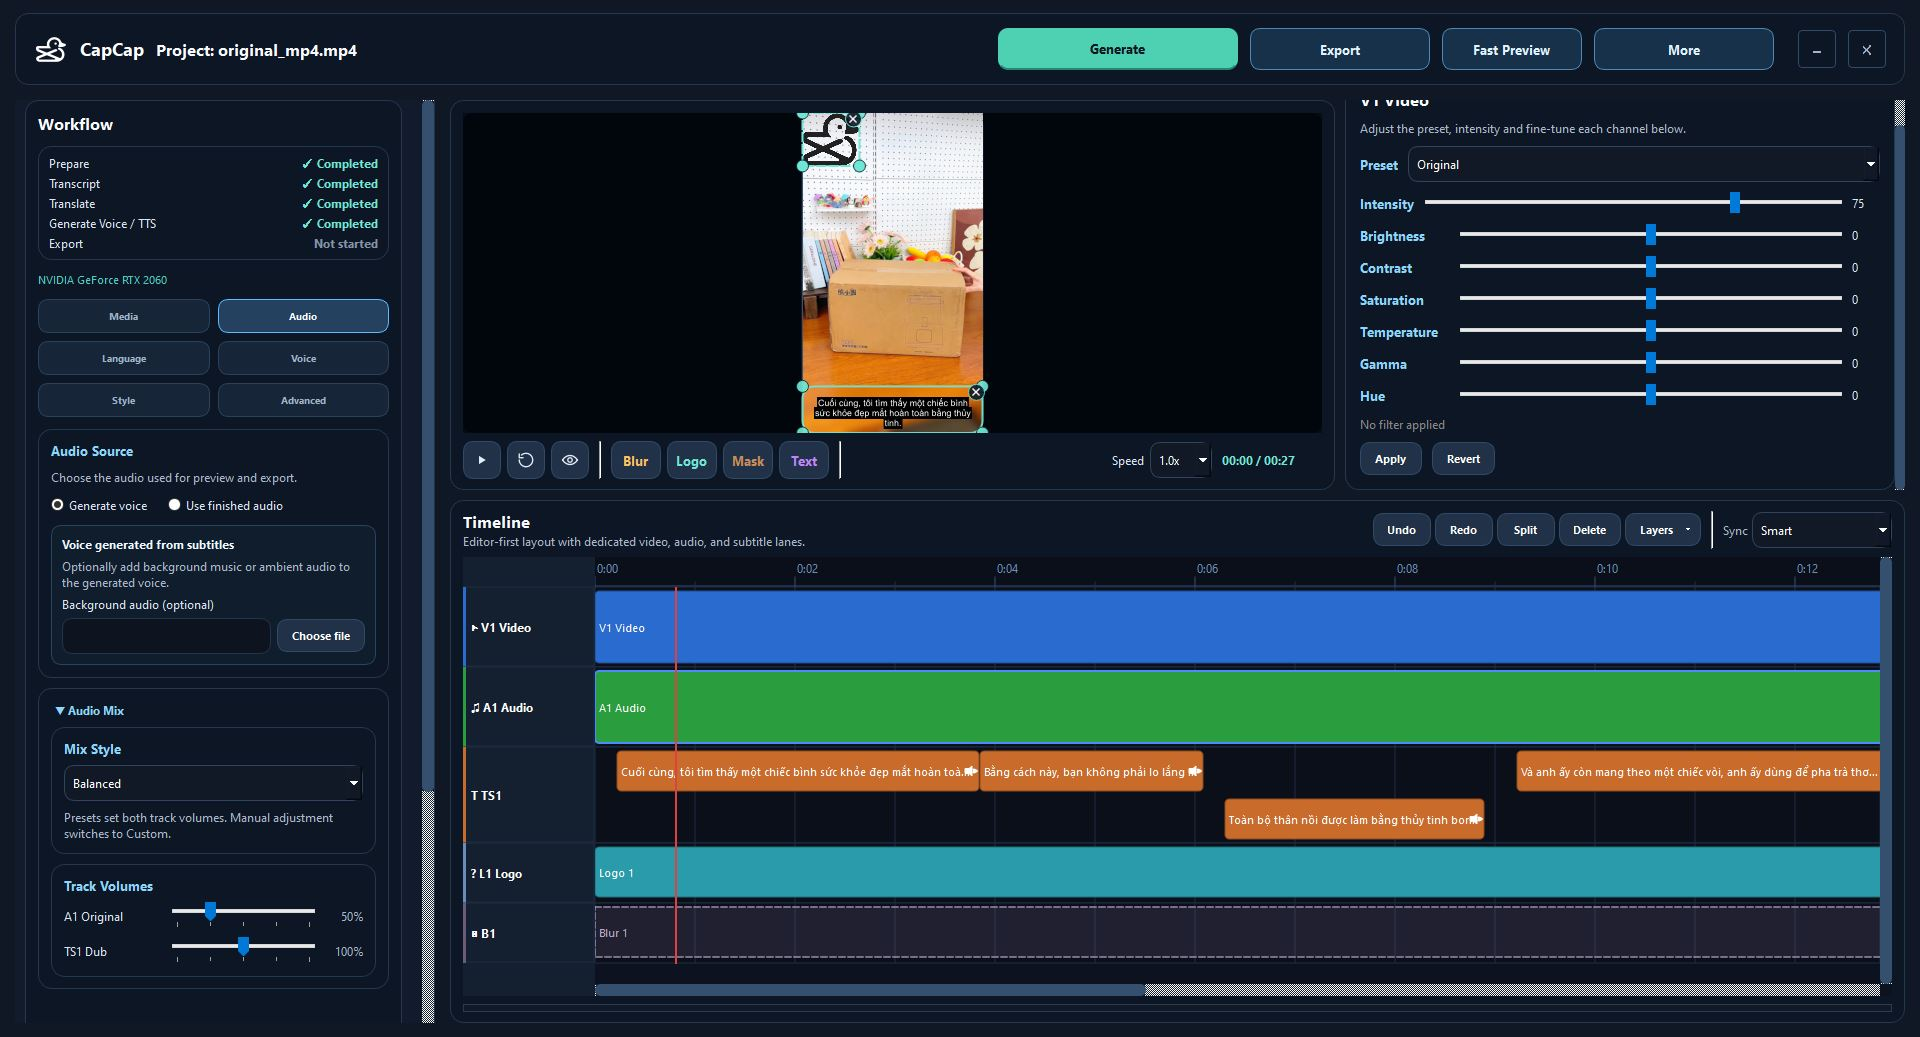
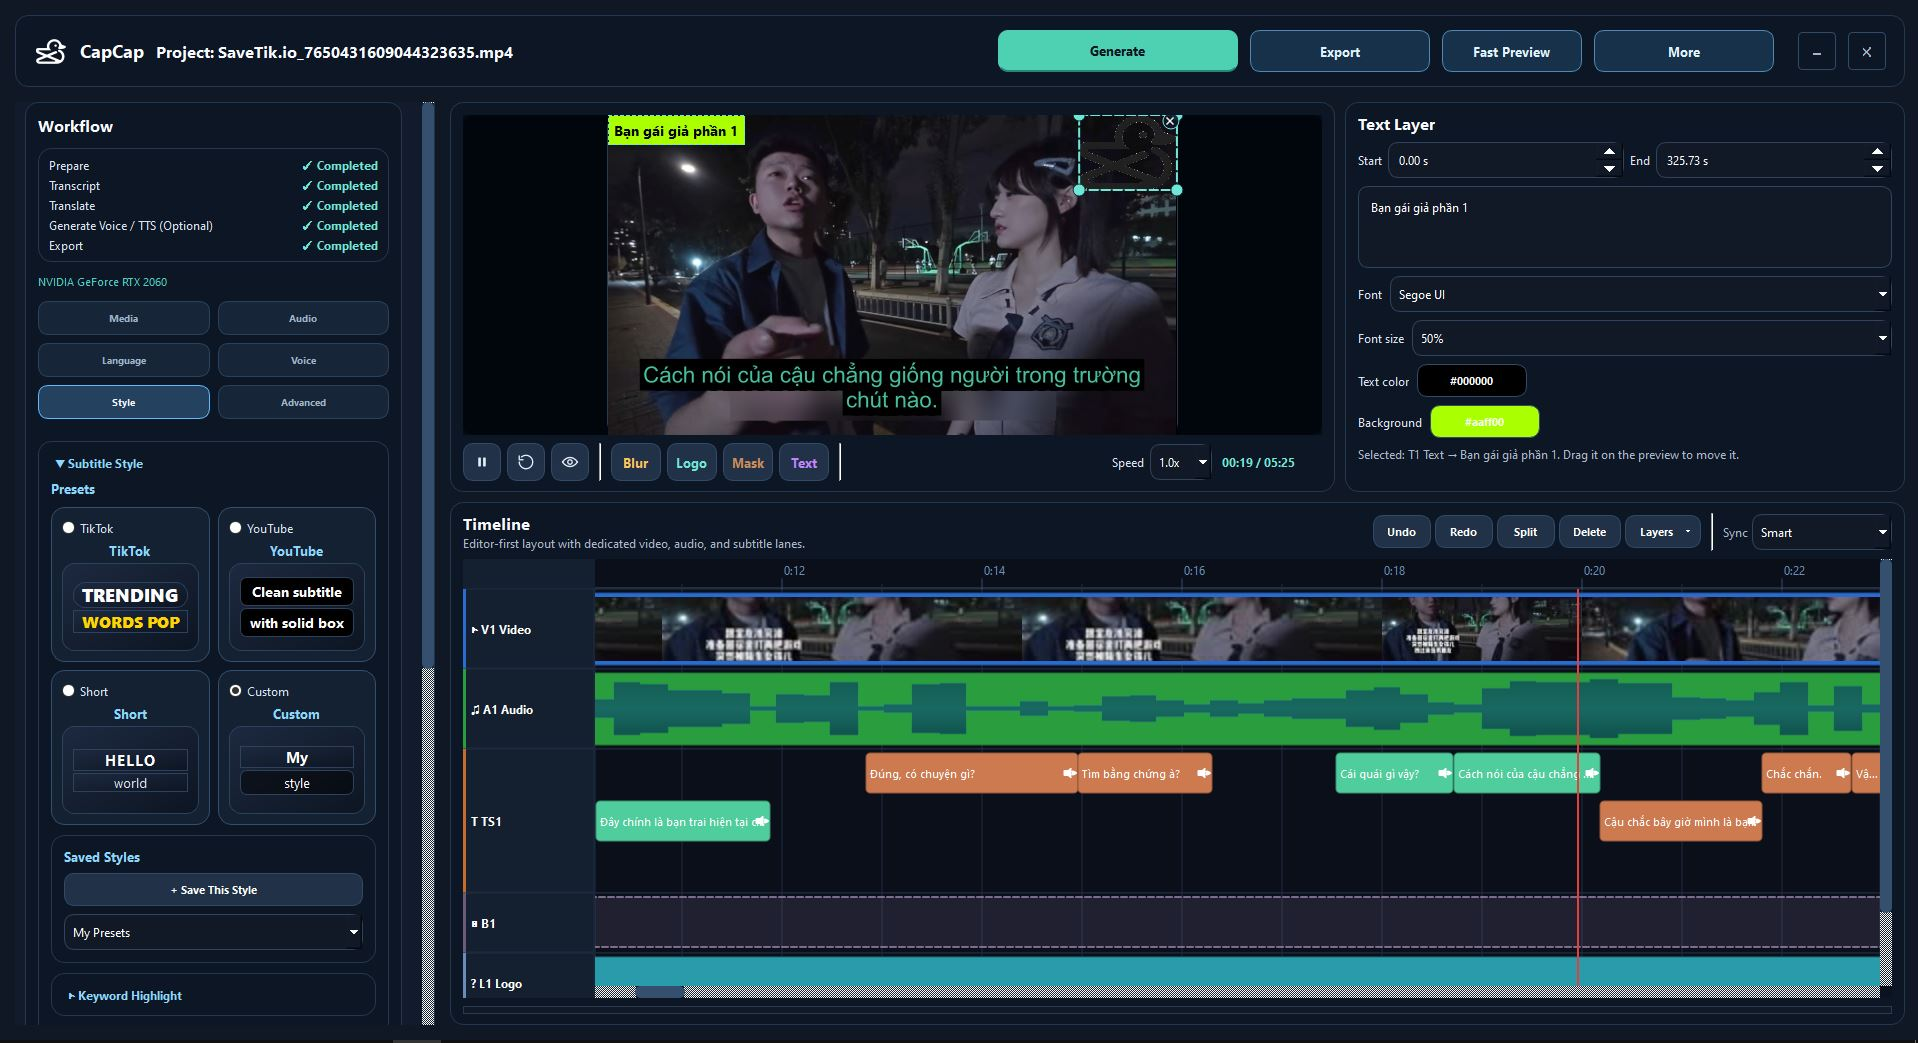
Persist speaker assignments and document diarization

diff --git a/app/services/gui_project_bridge.py b/app/services/gui_project_bridge.py
@@ -131,6 +131,29 @@ class GUIProjectBridge:
         translation_json = state.artifacts.get("translation_final")
         if translation_json and os.path.exists(translation_json):
             translation_models = self.project_service.load_segment_artifact(state, "translation_final")
+            # Repair projects written before flat ``speaker`` metadata was
+            # retained during translation persistence.  Speaker identity is
+            # visualization/TTS metadata, so match the stable cue order from
+            # the transcript and save the repaired project artifact once.
+            repaired_speakers = False
+            for index, translation_model in enumerate(translation_models):
+                if index >= len(context["current_segment_models"]):
+                    break
+                if translation_model.metadata.get("speaker"):
+                    continue
+                source_speaker = str(
+                    context["current_segment_models"][index].metadata.get("speaker", "") or ""
+                ).strip()
+                if source_speaker:
+                    translation_model.metadata["speaker"] = source_speaker
+                    repaired_speakers = True
+            if repaired_speakers:
+                self.project_service.save_segment_artifact(
+                    state,
+                    "translation_final",
+                    os.path.join("translation", "translation_final.json"),
+                    translation_models,
+                )
             context["current_translated_segment_models"] = translation_models
             context["current_translated_segments"] = [segment.to_subtitle_dict() for segment in translation_models]
 

diff --git a/app/core/models/segment.py b/app/core/models/segment.py
@@ -27,6 +27,12 @@ class Segment:
         final_text = str(data.get("final_text", data.get("text", "")) or "")
         tts_text = str(data.get("tts_text", "") or "")
         metadata = dict(data.get("metadata", {}) or {})
+        # Editor and diarization workflows use a flat ``speaker`` field,
+        # while persisted Segment artifacts keep supplemental data in
+        # metadata. Preserve it in both directions.
+        speaker = str(data.get("speaker", "") or "").strip()
+        if speaker and not metadata.get("speaker"):
+            metadata["speaker"] = speaker
         if "words" in data and "words" not in metadata:
             metadata["words"] = list(data.get("words") or [])
         if "manual_highlights" in data and "manual_highlights" not in metadata:

diff --git a/README.md b/README.md
@@ -13,6 +13,7 @@
 - **GPU-accelerated** — plug in NVIDIA GPU, install driver only, get ~5x faster transcription
 - Vietnamese and English output, with automatic Piper voice selection for the chosen output language
 - Speech-to-text: `faster-whisper` (CPU/GPU), `SenseVoice` (CPU, multilingual), or `RapidOCR` (video subtitle)
+- **Offline speaker diarization** — optional Sherpa-ONNX speaker detection for Whisper and SenseVoice; no PyTorch dependency. Speaker turns are colour-coded on TS1 and retained with the project.
 - OCR subtitle region editor with separate show/hide control
 - AI translation — 5 providers:
   - **Local GGUF** (default, offline, CPU/GPU, `.gguf` model)
@@ -29,6 +30,7 @@
 - VAD + denoise + loudness normalization for cleaner transcription
 - Guided pipeline: **Prepare → Transcript → Translate → TTS → Export**, with completion badges
 - Generate menu for a guided **Step-by-Step** workflow or the **Full Pipeline**
+- Optional TTS — after translation, choose **TTS** or **Skip** and export translated subtitles with the original audio when no voice-over is needed
 - Timeline editing, subtitle styling, video filters, and timed overlay layers
 - Translation-to-TTS cache prefetch to reduce voice generation wait time
 - Subtitle + voice export with FFmpeg
@@ -102,13 +104,13 @@ Videos over 2 hours are blocked from opening. Use the **Split Video** button to 
 - `More` — subtitle download, Original script download, Exit (back to launcher), Clean project, Settings
 
 ### Left Panel
-- `Media` — video, audio, background music, output quality, aspect ratio, canvas (Fit/Fill), Reset Framing
+- `Media` — video, audio, background music, output quality, aspect ratio, canvas (Fit/Fill), Reset Framing, and optional **Speaker Diarization** for audio-based transcription. It is unavailable in OCR mode and is off by default; choose Auto or a fixed expected speaker count.
 - `Language` — source/target language (Vietnamese or English output), Whisper model
-- `Voice` — engine (Fast Voice only, Piper + edge-tts), gender, speed, voice preview
+- `Voice` — engine (Fast Voice only, Piper + edge-tts), gender, speed, voice preview, and **Detected Speakers** after diarization. Each detected speaker shows its timeline colour and segment count, can use a dedicated voice, and can be bulk-reassigned to another detected speaker. Speakers without an override use the global default voice.
 - `Style`
   - `Presets` — TikTok, YouTube, Short, Custom
   - `Text Position` — placement mode, placement, custom X/Y, vertical offset
-  - `Text Style` — font, preset font scale (50–150%), colours, outline, bold, and animation
+  - `Text Style` — font, preset font scale (50–150%), colours, outline, bold, animation, and optional **Use speaker colors** to match subtitle text to speaker colours on TS1
   - `Background` — background box, colour, opacity, and padding
   - `Single Line Subtitle` — enable word-based subtitle splitting and choose **Words per Segment** (default: 4)
   - `Animation & Timing` — animation, duration, text timing
@@ -129,7 +131,7 @@ Videos over 2 hours are blocked from opening. Use the **Split Video** button to 
 ### Track Inspector (Right Panel)
 The inspector always stays expanded and swaps its card to match the track type you click. Each card is wrapped in a scroll view so tall content doesn't clip.
 
-- **Subtitle / Dub** (flat single panel, no tabs) — `Rewrite`, `Rewrite Selected`, `Import SRT`, `Regenerate Voice` (top action row), shared `Original text` label, segment timing chips, segment editor (180px height).
+- **Subtitle / Dub** (flat single panel, no tabs) — `Rewrite`, `Rewrite Selected`, `Import SRT`, `Regenerate Voice` (top action row), shared `Original text` label, segment timing chips, segment editor (180px height), and a **Speaker** selector for correcting an individual diarization assignment.
 - **Audio** (idx 1) — per-track volume (0-200%), gain in dB, speed, fade-in / fade-out, mute / solo, A1 vs A2 (Dub) selection.
 - **Blur** (idx 2) — B1 Blur track on/off toggle + per-region controls: `Blur radius` (1-20), `Opacity` (0-100%), `Pixelate` (mosaic) + `Pixel size` (2-60). Multiple regions stack vertically in the timeline so overlapping blurs stay visible.
 - **Video** (idx 3) — V1 Video track filter. Preset + intensity sliders, plus per-channel adjust sliders (brightness, contrast, saturation, temperature, gamma, hue), Apply / Revert.
@@ -155,6 +157,7 @@ Behavior notes:
 - Blur, Logo, Mask, and Text layers are stacked vertically inside their tracks so overlapping layers are all visible.
 - The Delete button removes the currently selected Blur, Logo, Mask, or Text layer.
 - **Row stacking** — DubSubtitleLayer bars that overlap in audio time (via `_audio_end`) are pushed down a row so both are visible. Overflow-row bars get a dashed border.
+- **Speaker colours** — when diarization is enabled, TS1 segments are colour-coded by detected speaker. Selecting a speaker in the Voice panel highlights that speaker's segments for review.
 
 ## Technical Stack
 
@@ -164,6 +167,7 @@ Behavior notes:
 | Video preview | libmpv / Qt Multimedia |
 | Workers | QThread |
 | Speech-to-text | faster-whisper (CTranslate2, CUDA/CPU), SenseVoice (sherpa-onnx, CPU) |
+| Speaker diarization | Sherpa-ONNX (offline ONNX Runtime) |
 | OCR subtitle extraction | RapidOCR (PP-OCRv4) via opencv-python-headless |
 | Voice activity detection | Silero VAD (sherpa-onnx) |
 | Vocal separation | ONNX Runtime + UVR MDX-NET model, Demucs (Hybrid Transformer, optional) |
@@ -238,6 +242,7 @@ Per-card progress replaces the status pill during an Auto Download. Click **Refr
 | SenseVoice ASR Model | `models/sensevoice/` | ✅ |
 | Local Vietnamese Voices (Piper) | `models/piper/` | ✅ |
 | Local English Voices (Piper) | `models/piper-en/` | ✅ |
+| Speaker Diarization | `models/pyannote/` | manual model files |
 
 - **AI Model** (Normal / High)
   - File: `models/ai/Hy-MT2-1.8B-Q4_K_M.gguf` (default) or `models/ai/gemma-4-E4B-it-Q4_K_M.gguf`
@@ -259,6 +264,9 @@ Per-card progress replaces the status pill during an Auto Download. Click **Refr
 - **Local English Voices (Piper)**
   - Folder: `models/piper-en/`
   - Download through **Manage Resources** or install the supplied English Piper `.onnx` files with their `.onnx.json` configs.
+- **Speaker Diarization (optional)**
+  - Folder: `models/pyannote/`
+  - Requires the supplied Sherpa-ONNX segmentation and speaker-embedding `.onnx` models. It runs locally through ONNX Runtime and is used only when **Speaker Diarization** is enabled for Whisper or SenseVoice.
 
 ## Run From Source
 
@@ -282,13 +290,14 @@ python app/remote_api_server.py
 
 1. Load a video. **Prepare** is marked complete once the video is ready.
 2. Choose the source and target language, then select audio handling.
-3. Open **Generate** and either:
+3. If wanted, enable **Speaker Diarization** in Media before transcribing. It runs alongside GPU Whisper where possible, then assigns speaker labels to subtitle segments.
+4. Open **Generate** and either:
    - choose **Full Pipeline** to run Transcript → Translate → TTS, or
    - choose **Step-by-Step** to run stages in order. Each next stage unlocks after the preceding stage completes.
-4. To translate manually, run to Transcript, export the subtitle file from **More**, translate it externally, then use **Generate → Step-by-Step → Import Translated File** and continue with TTS.
-5. Review subtitle styling, timing, voice text, and optional overlay layers in the editor.
-6. Use **Fast Preview** to render a five-second sample of the final subtitle, TEXT, and overlay output before exporting.
-7. Export the finished video.
+5. To translate manually, run to Transcript, export the subtitle file from **More**, translate it externally, then use **Generate → Step-by-Step → Import Translated File**. At the final stage, select **TTS** to generate voices or **Skip** to export subtitles with the original audio.
+6. Review speaker assignments, styling, timing, voice text, and optional overlay layers in the editor. Use the Subtitle Inspector for individual speaker corrections or Voice → Detected Speakers for bulk reassignment.
+7. Use **Fast Preview** to render a five-second sample of the final subtitle, TEXT, and overlay output before exporting.
+8. Export the finished video.
 
 Performance notes:
 - Heavy preview assets such as exact-frame preview, waveform, and timeline thumbnails are intentionally deferred to keep long-video loading responsive.
